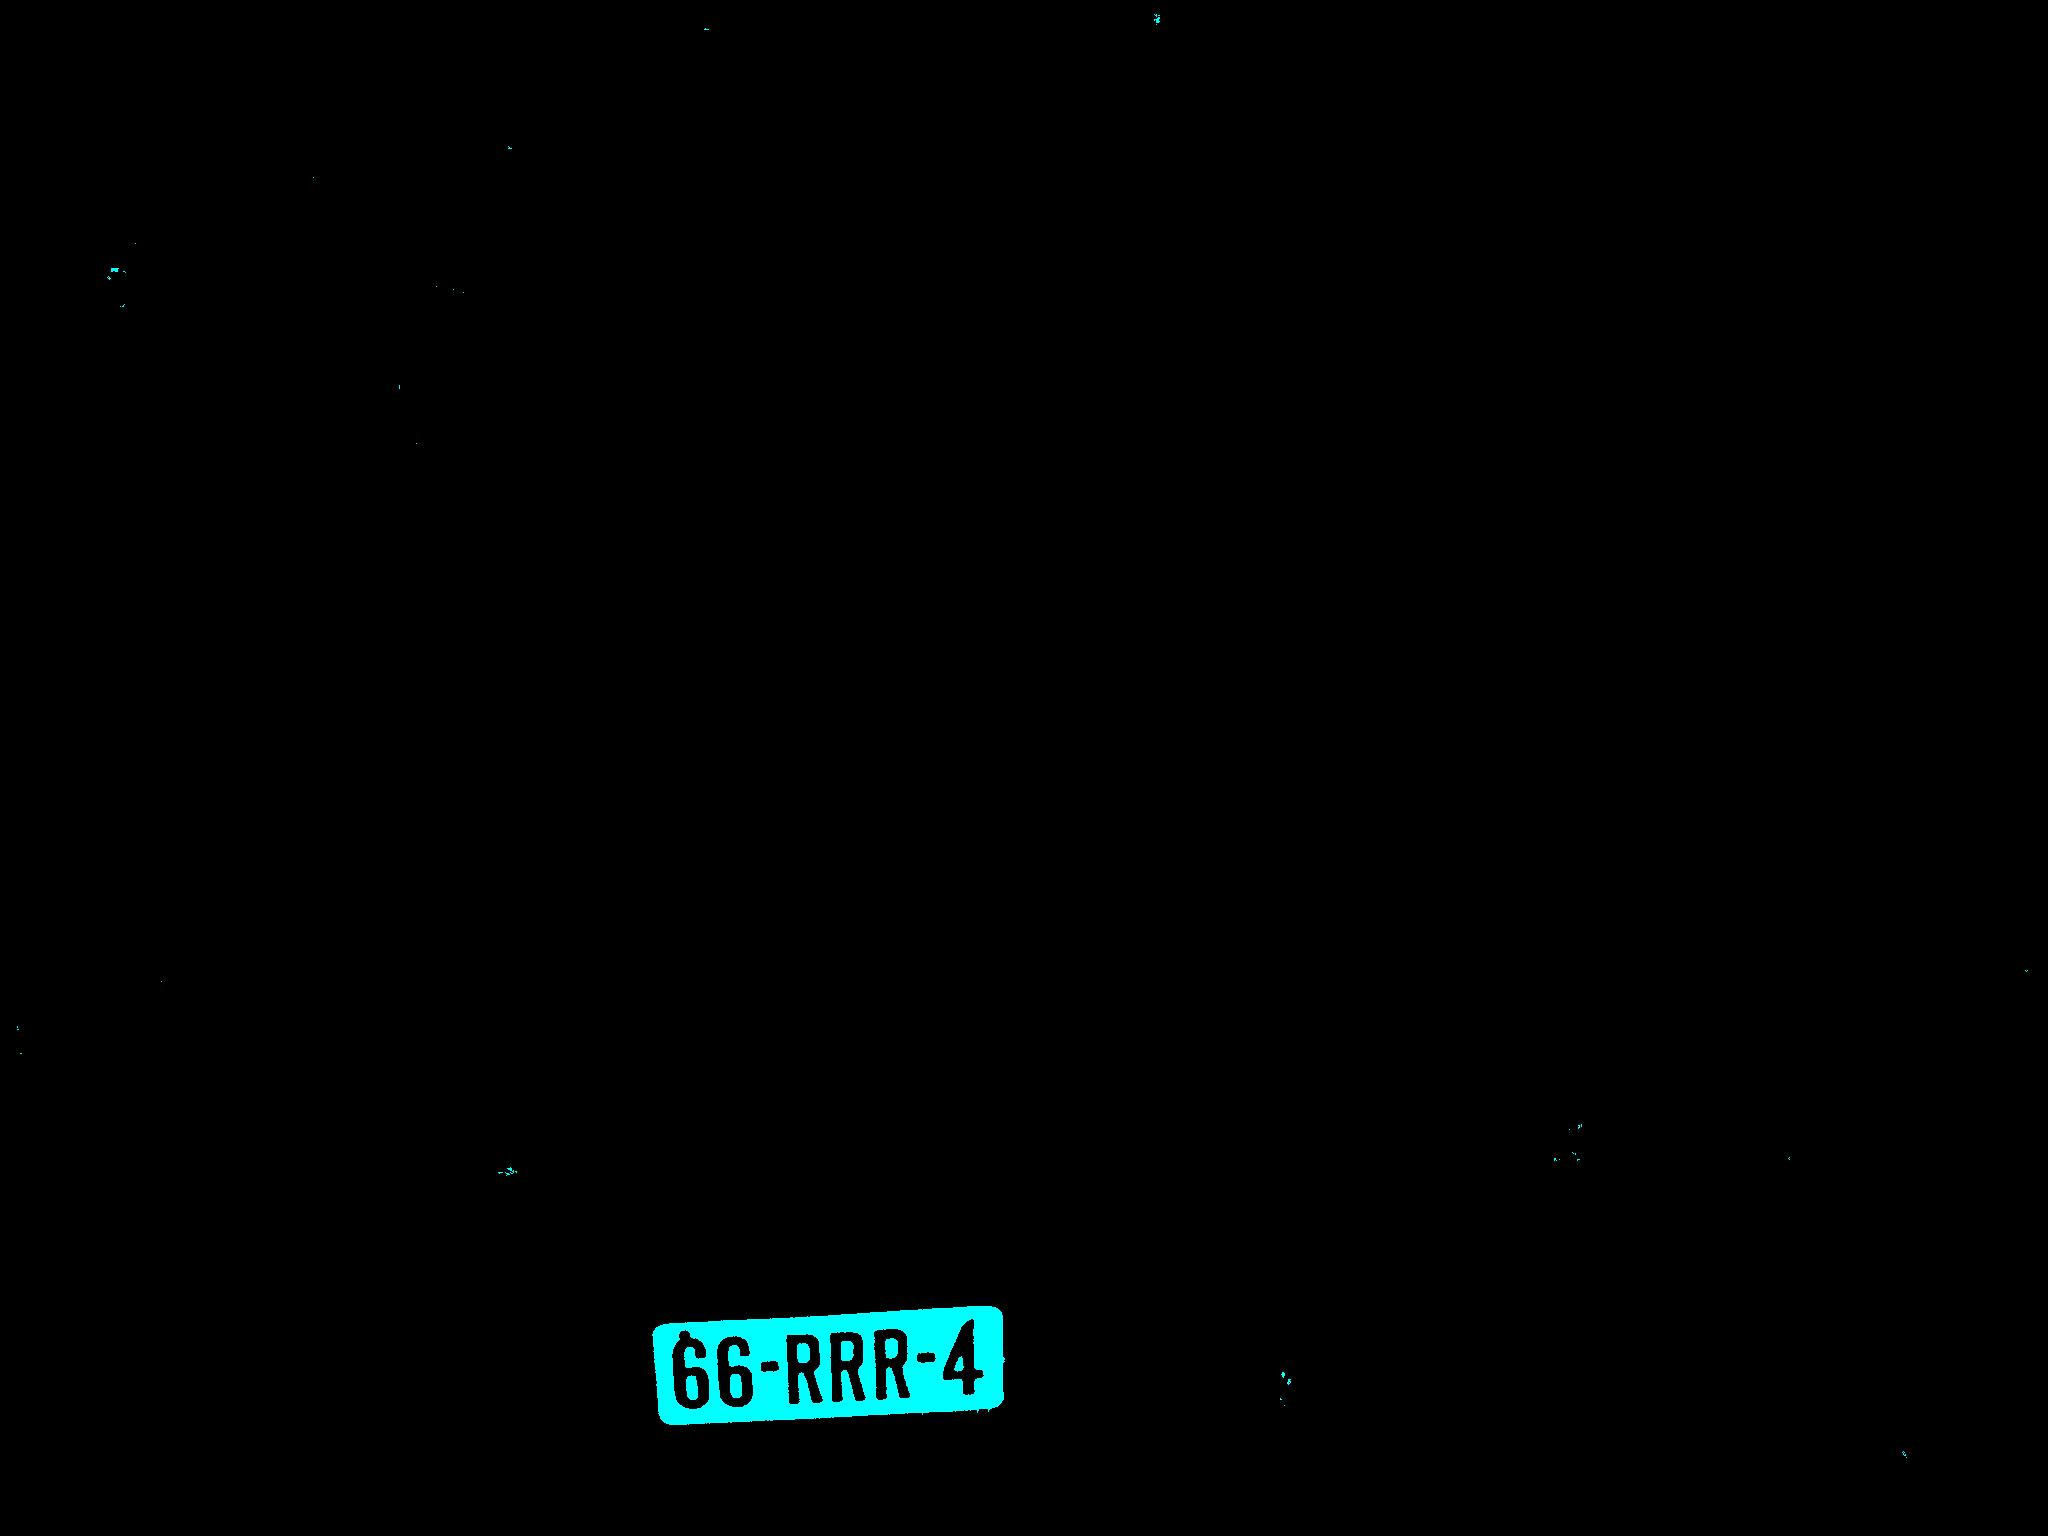
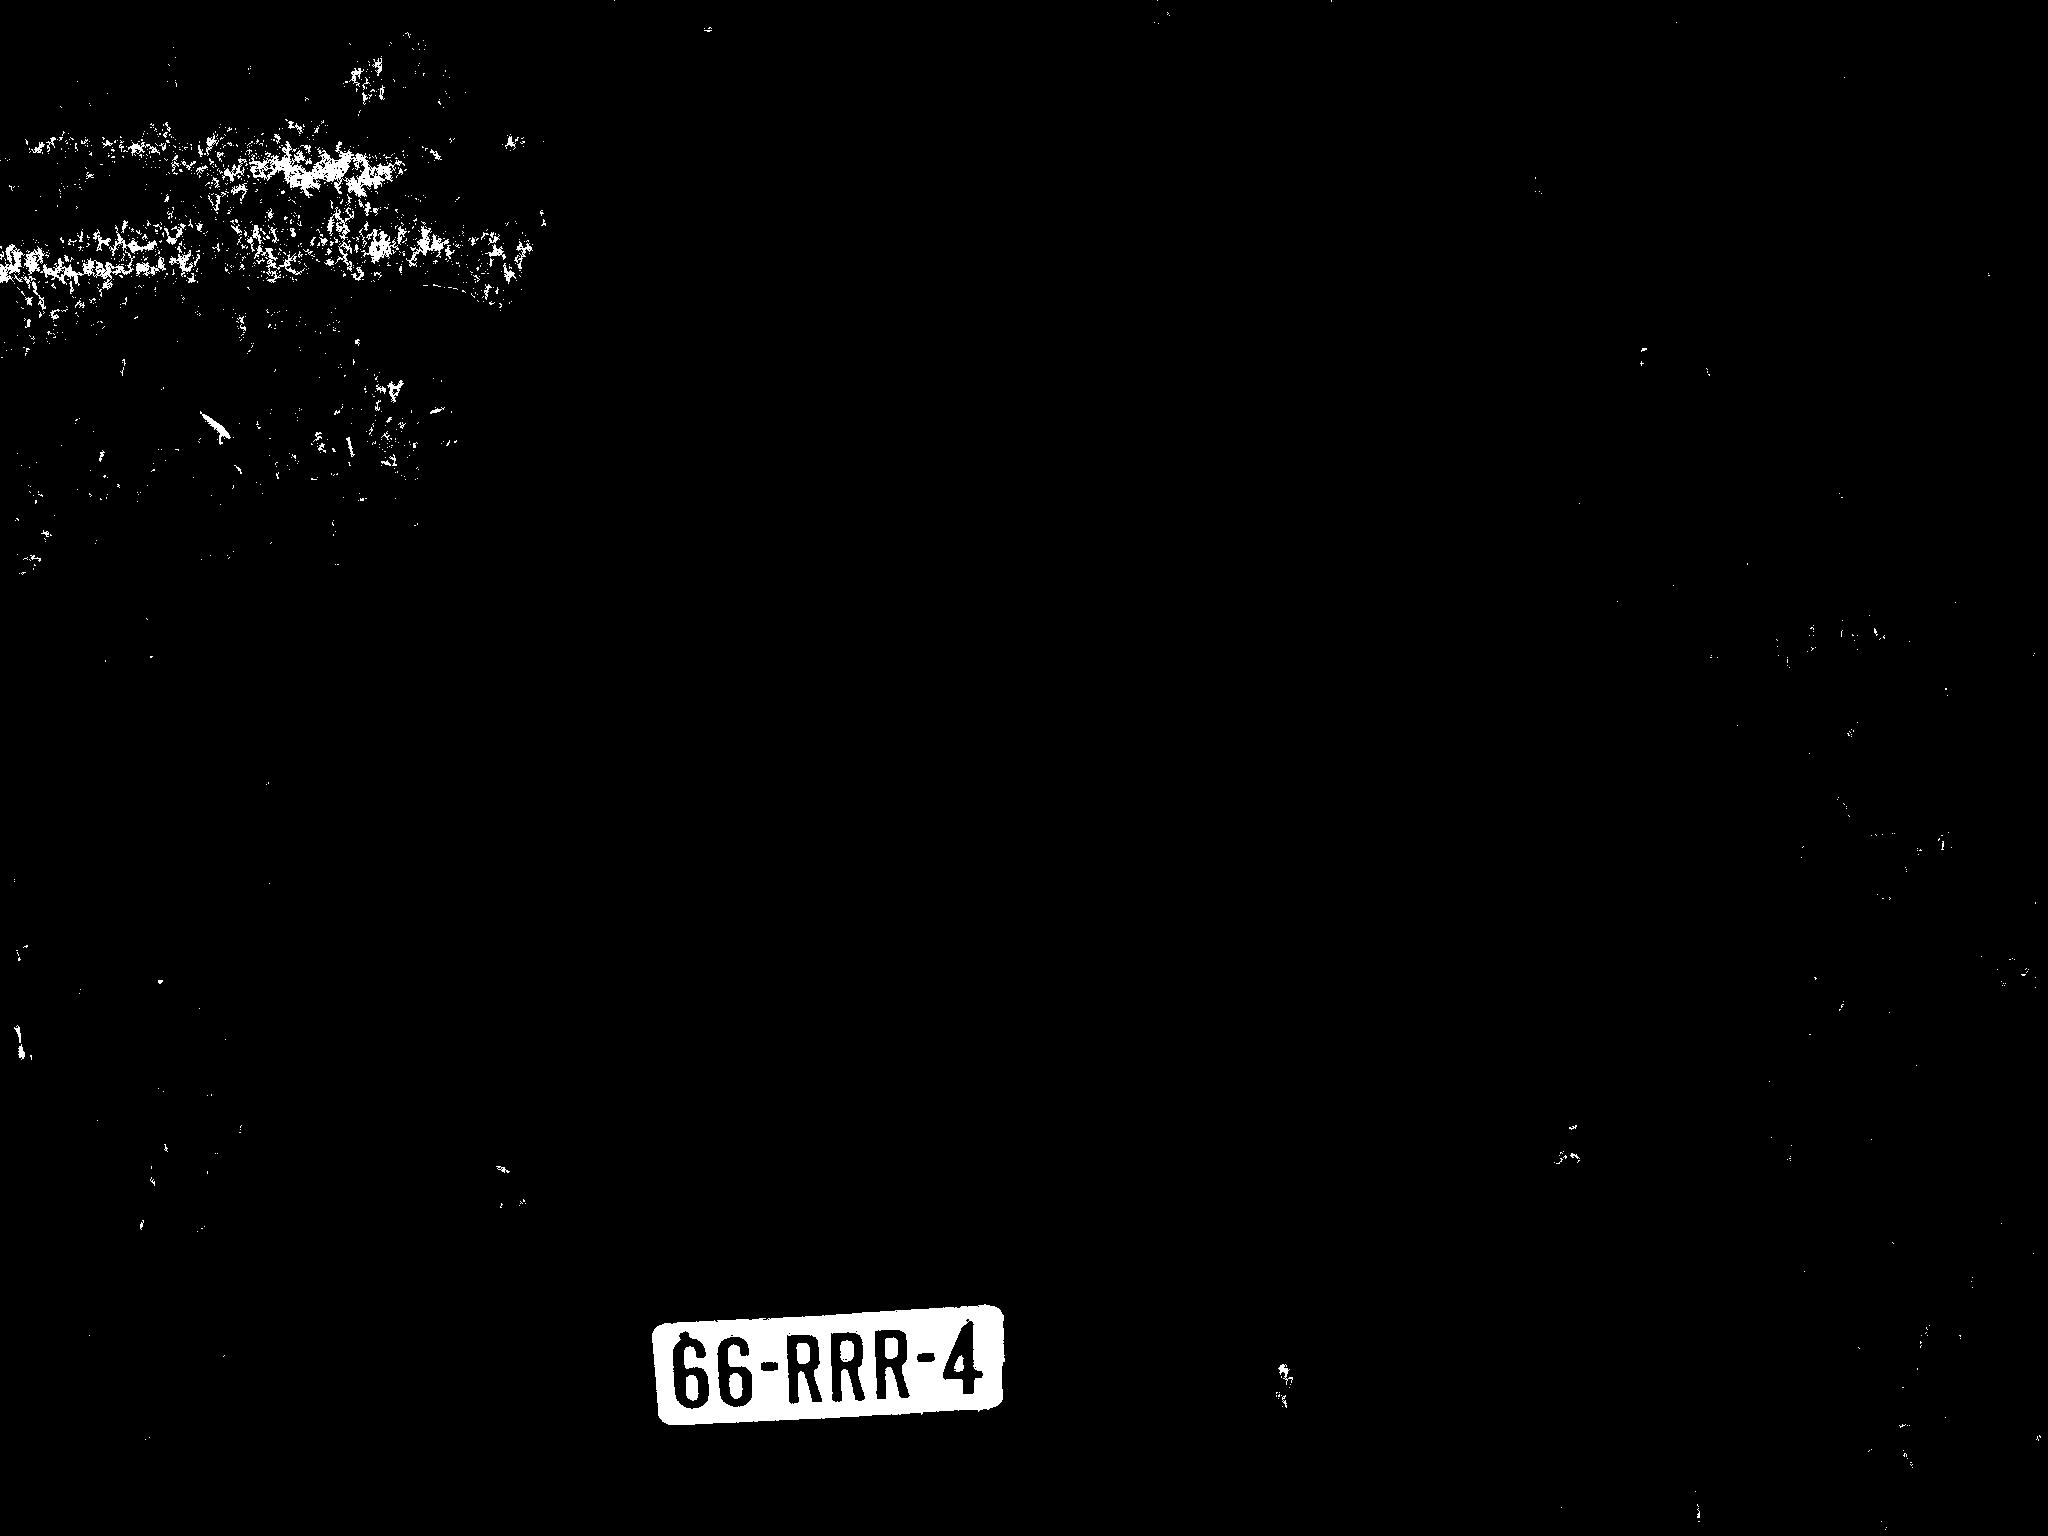
CannyEdge
+CannyEdge 5x5 filter

Changed region(s): [[0.3125, 0.8438, 0.5, 0.9375], [0.0625, 0.0938, 0.25, 0.1875], [0.0, 0.1562, 0.0938, 0.1875]]

diff --git a/THO7 Week 4/Vision_timer/CannyEdge.cpp b/THO7 Week 4/Vision_timer/CannyEdge.cpp
@@ -1,0 +1,140 @@
+#include "CannyEdge.h"
+
+CannyEdge::CannyEdge() {
+	bt = new BaseTimer();
+}
+
+
+CannyEdge::~CannyEdge() {
+	delete bt;
+}
+
+void CannyEdge::CreateCannyEdge(Image &sourceImage, Image &destinationImage) {
+	bt->reset();
+	bt->start();
+
+	/* CANNY EDGE 
+	
+	This is a 2 step method.
+	First we apply a gaussian filter and than we retrieve edges with the sobol.
+	
+	Pattern
+	2	4	5	4	2
+	4	9	12	9	4
+	5	12	15	12	5
+	4	9	12	9	4
+	2	4	5	4	2
+
+	Then divide that sum by 115.
+
+	*/
+
+	if (sourceImage.GetWidth() != destinationImage.GetWidth() && sourceImage.GetHeight() != destinationImage.GetHeight()) {
+		std::cout << "Error images are not the same size" << std::endl;
+		return;
+	}
+	int sumR = 0;
+	int sumG = 0;
+	int sumB = 0;
+	for (int y = sourceImage.GetHeight() - 3; y >= 3; y--) {
+		for (int x = sourceImage.GetWidth() - 3; x >= 3; x--) {
+			sumR = 0;
+			sumG = 0;
+			sumB = 0;
+			sumR = sourceImage.GetPixelRed(x - 2, y - 2) * 2;
+			sumG = sourceImage.GetPixelGreen(x - 2, y - 2) * 2;
+			sumB = sourceImage.GetPixelBlue(x - 2, y - 2) * 2;
+			sumR += sourceImage.GetPixelRed(x - 2, y - 1) * 4;
+			sumG += sourceImage.GetPixelGreen(x - 2, y - 1) * 4;
+			sumB += sourceImage.GetPixelBlue(x - 2, y - 1) * 4;
+			sumR += sourceImage.GetPixelRed(x - 2, y) * 5;
+			sumG += sourceImage.GetPixelGreen(x - 2, y) * 5;
+			sumB += sourceImage.GetPixelBlue(x - 2, y) * 5;
+			sumR += sourceImage.GetPixelRed(x - 2, y + 1) * 4;
+			sumG += sourceImage.GetPixelGreen(x - 2, y + 1) * 4;
+			sumB += sourceImage.GetPixelBlue(x - 2, y + 1) * 4;
+			sumR += sourceImage.GetPixelRed(x - 2, y + 2) * 2;
+			sumG += sourceImage.GetPixelGreen(x - 2, y + 2) * 2;
+			sumB += sourceImage.GetPixelBlue(x - 2, y + 2) * 2;
+
+			sumR += sourceImage.GetPixelRed(x - 1, y - 2) * 4;
+			sumG += sourceImage.GetPixelGreen(x - 1, y - 2) * 4;
+			sumB += sourceImage.GetPixelBlue(x - 1, y - 2) * 4;
+			sumR += sourceImage.GetPixelRed(x, y - 2) * 5;
+			sumG += sourceImage.GetPixelGreen(x, y - 2) * 5;
+			sumB += sourceImage.GetPixelBlue(x, y - 2) * 5;
+			sumR += sourceImage.GetPixelRed(x + 1, y - 2) * 4;
+			sumG += sourceImage.GetPixelGreen(x + 1, y - 2) * 4;
+			sumB += sourceImage.GetPixelBlue(x + 1, y - 2) * 4;
+			sumR += sourceImage.GetPixelRed(x + 2, y - 2) * 2;
+			sumG += sourceImage.GetPixelGreen(x + 2, y - 2) * 2;
+			sumB += sourceImage.GetPixelBlue(x + 2, y - 2) * 2;
+
+			sumR += sourceImage.GetPixelRed(x + 2, y - 1) * 4;
+			sumG += sourceImage.GetPixelGreen(x + 2, y - 1) * 4;
+			sumB += sourceImage.GetPixelBlue(x + 2, y - 1) * 4;
+			sumR += sourceImage.GetPixelRed(x + 2, y) * 5;
+			sumG += sourceImage.GetPixelGreen(x + 2, y) * 5;
+			sumB += sourceImage.GetPixelBlue(x + 2, y) * 5;
+			sumR += sourceImage.GetPixelRed(x + 2, y + 1) * 4;
+			sumG += sourceImage.GetPixelGreen(x + 2, y + 1) * 4;
+			sumB += sourceImage.GetPixelBlue(x + 2, y + 1) * 4;
+			sumR += sourceImage.GetPixelRed(x + 2, y + 2) * 2;
+			sumG += sourceImage.GetPixelGreen(x + 2, y + 2) * 2;
+			sumB += sourceImage.GetPixelBlue(x + 2, y + 2) * 2;
+
+			sumR += sourceImage.GetPixelRed(x + 1, y + 2) * 4;
+			sumG += sourceImage.GetPixelGreen(x - 1, y + 2) * 4;
+			sumB += sourceImage.GetPixelBlue(x - 1, y - 2) * 4;
+			sumR += sourceImage.GetPixelRed(x, y + 2) * 5;
+			sumG += sourceImage.GetPixelGreen(x, y - 2) * 5;
+			sumB += sourceImage.GetPixelBlue(x, y - 2) * 5;
+			sumR += sourceImage.GetPixelRed(x + 1, y + 2) * 4;
+			sumG += sourceImage.GetPixelGreen(x + 1, y + 2) * 4;
+			sumB += sourceImage.GetPixelBlue(x + 1, y + 2) * 4;
+
+			sumR += sourceImage.GetPixelRed(x + 1, y + 1) * 9;
+			sumG += sourceImage.GetPixelGreen(x + 1, y + 1) * 9;
+			sumB += sourceImage.GetPixelBlue(x + 1, y + 1) * 9;
+			sumR += sourceImage.GetPixelRed(x - 1, y + 1) * 9;
+			sumG += sourceImage.GetPixelGreen(x - 1, y + 1) * 9;
+			sumB += sourceImage.GetPixelBlue(x - 1, y + 1) * 9;
+			sumR += sourceImage.GetPixelRed(x + 1, y - 1) * 9;
+			sumG += sourceImage.GetPixelGreen(x + 1, y - 1) * 9;
+			sumB += sourceImage.GetPixelBlue(x + 1, y - 1) * 9;
+			sumR += sourceImage.GetPixelRed(x - 1, y - 1) * 9;
+			sumG += sourceImage.GetPixelGreen(x - 1, y - 1) * 9;
+			sumB += sourceImage.GetPixelBlue(x - 1, y - 1) * 9;
+
+			sumR += sourceImage.GetPixelRed(x + 1, y) * 12;
+			sumG += sourceImage.GetPixelGreen(x + 1, y) * 12;
+			sumB += sourceImage.GetPixelBlue(x + 1, y) * 12;
+			sumR += sourceImage.GetPixelRed(x - 1, y) * 12;
+			sumG += sourceImage.GetPixelGreen(x - 1, y) * 12;
+			sumB += sourceImage.GetPixelBlue(x - 1, y) * 12;
+			sumR += sourceImage.GetPixelRed(x, y + 1) * 12;
+			sumG += sourceImage.GetPixelGreen(x, y + 1) * 12;
+			sumB += sourceImage.GetPixelBlue(x, y + 1) * 12;
+			sumR += sourceImage.GetPixelRed(x, y - 1) * 12;
+			sumG += sourceImage.GetPixelGreen(x, y - 1) * 12;
+			sumB += sourceImage.GetPixelBlue(x, y - 1) * 12;
+
+			sumR += sourceImage.GetPixelRed(x, y) * 15;
+			sumG += sourceImage.GetPixelGreen(x, y) * 15;
+			sumB += sourceImage.GetPixelBlue(x, y) * 15;
+
+			sumR = (sumR / 115);
+			sumG = (sumR / 115);
+			sumB = (sumR / 115);
+			
+			//printf("RESULTS: R:%d G:%d B:%d ", sumR, sumG, sumB);
+
+			destinationImage.SetPixelRed(x, y, sumR);
+			destinationImage.SetPixelGreen(x, y, sumG);
+			destinationImage.SetPixelBlue(x, y, sumB);
+		}
+	}
+
+	bt->stop();
+	std::cout << "Time for the CannyEdge function: " << bt->elapsedMicroSeconds() << " Microseconds (" << bt->elapsedMilliSeconds() << "ms)" << std::endl;
+}

diff --git a/THO7 Week 4/Vision_timer/CannyEdge.h b/THO7 Week 4/Vision_timer/CannyEdge.h
@@ -1,0 +1,12 @@
+#include "Image.h"
+#include "exectimer.h"
+#include <iostream>
+
+class CannyEdge {
+private:
+	BaseTimer* bt;
+public:
+	CannyEdge();
+	~CannyEdge();
+	void CreateCannyEdge(Image &sourceImage, Image &destinationImage);
+};
